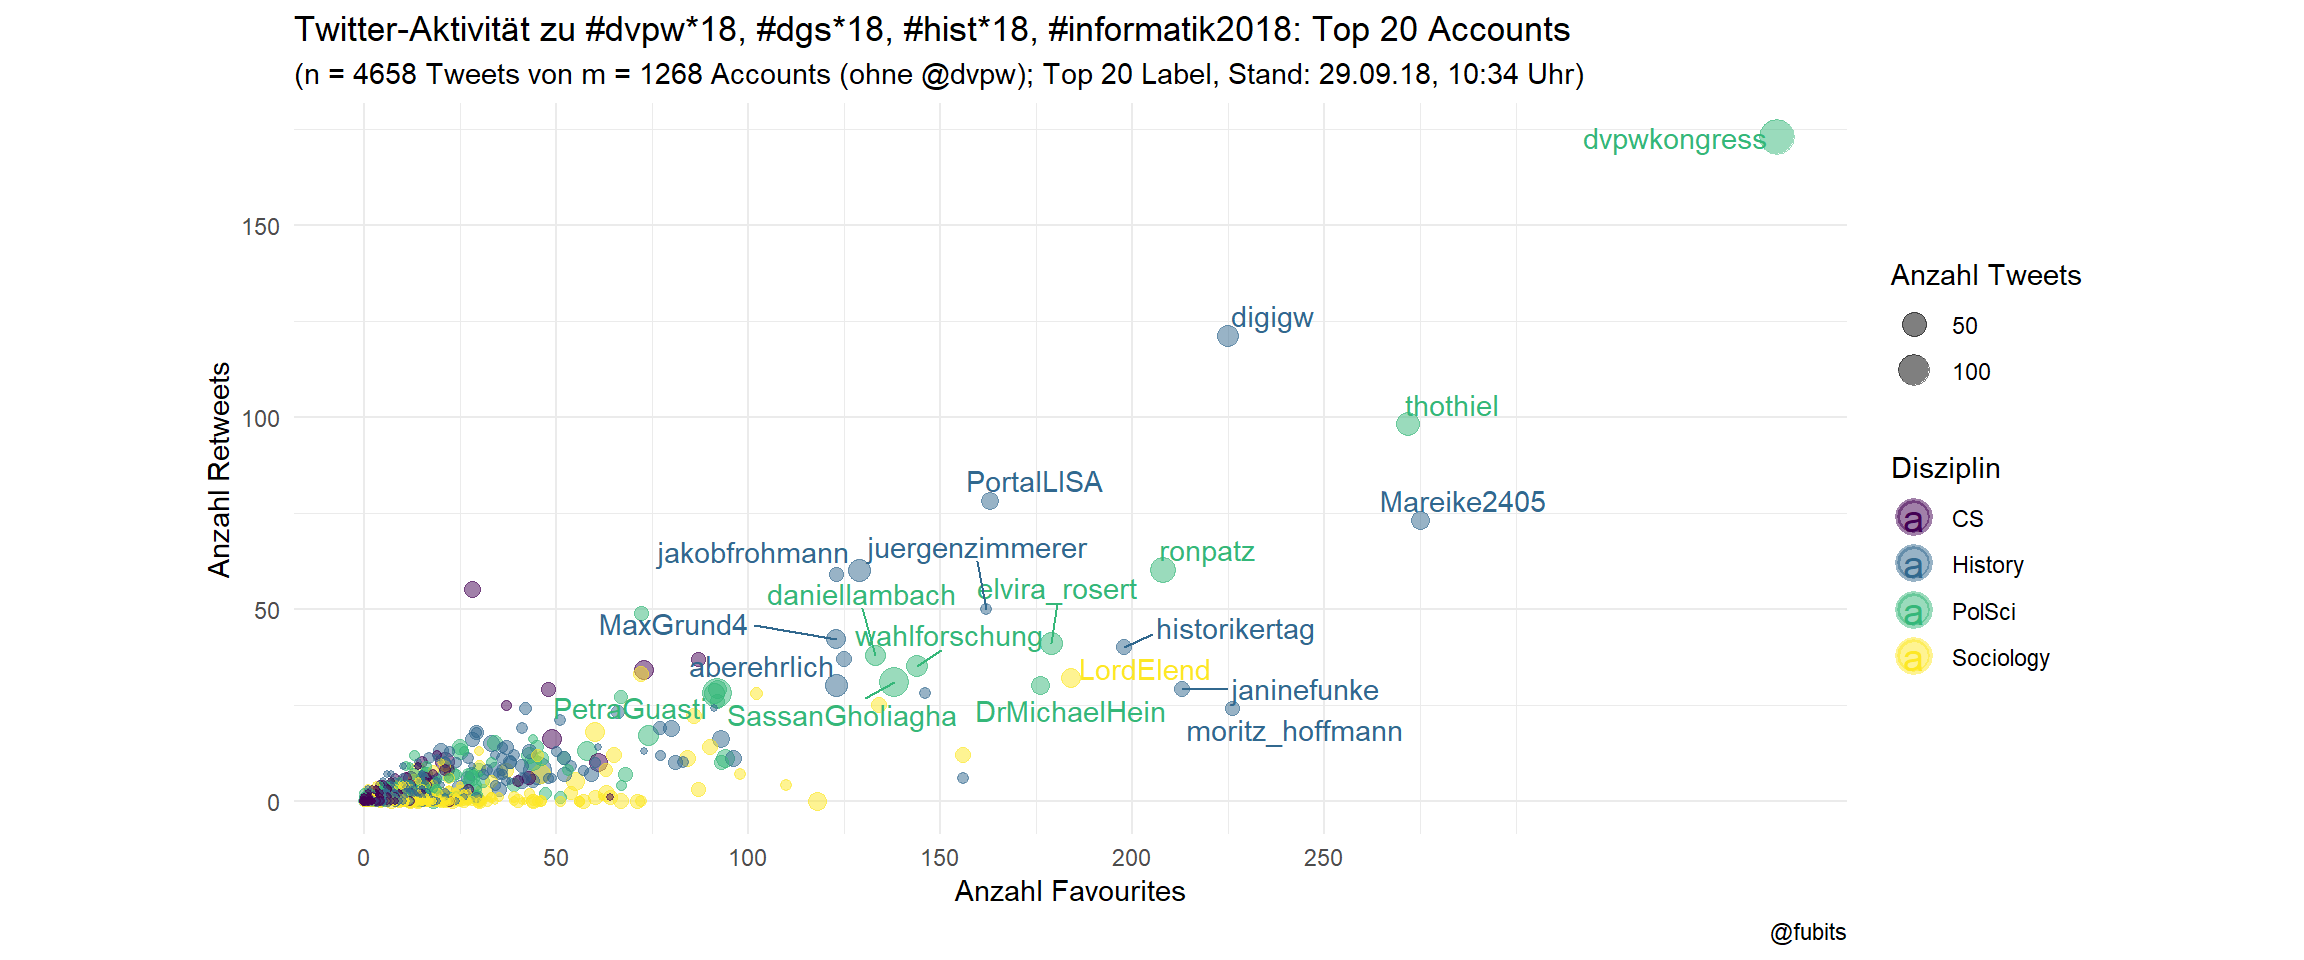
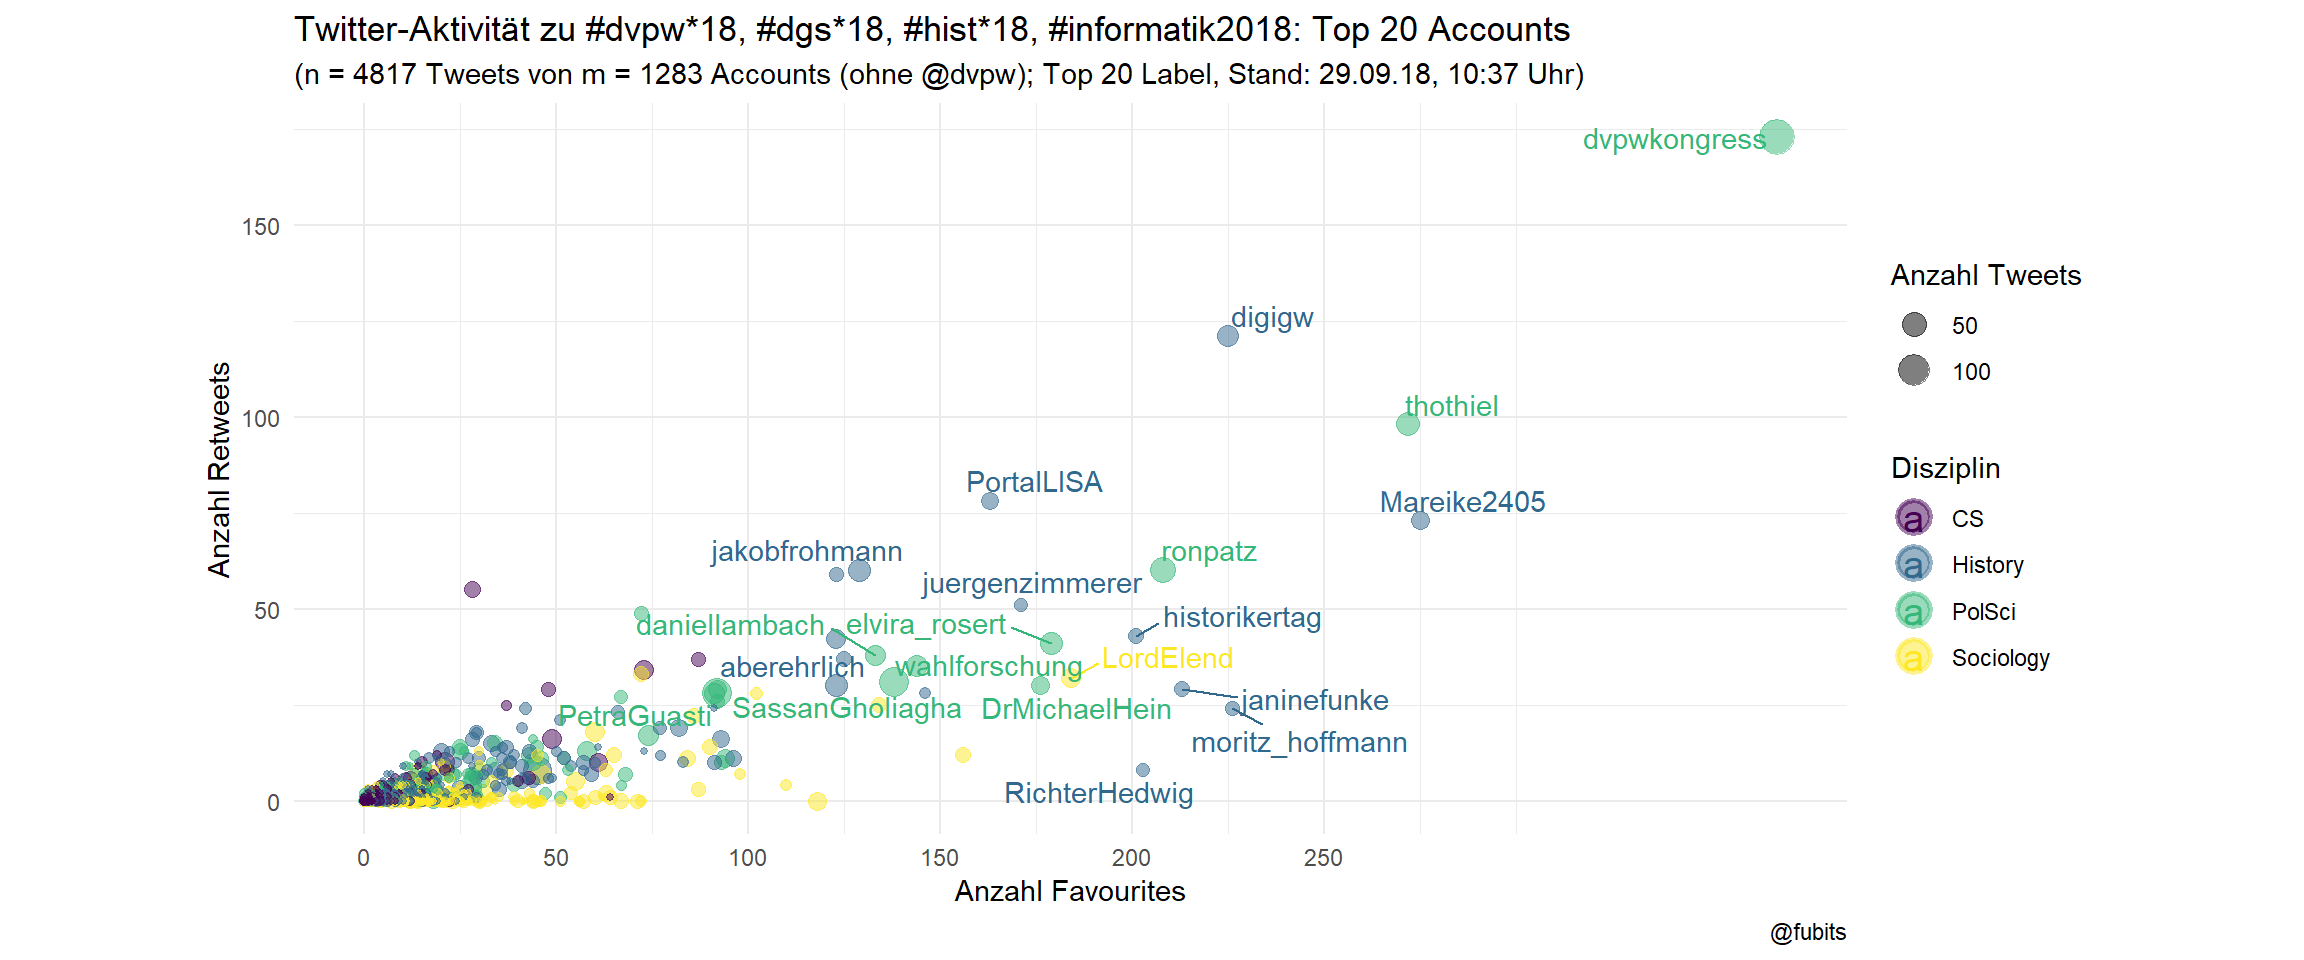
Twitter Post: Final polishing

diff --git a/content/post/2018-09-28-r-academic-conference-twitter-pt-1-mining-dvpw18-dgs18-hist18-et-al.html b/content/post/2018-09-28-r-academic-conference-twitter-pt-1-mining-dvpw18-dgs18-hist18-et-al.html
@@ -59,7 +59,7 @@ sequenceDiagrams:
 </ul></li>
 <li><a href="#some-comparisons"><span class="toc-section-number">3</span> Some Comparisons</a><ul>
 <li><a href="#joint-scatterplot-per-user"><span class="toc-section-number">3.1</span> Joint Scatterplot: per-User</a></li>
-<li><a href="#joint-scatterplot-top-20-labelled"><span class="toc-section-number">3.2</span> Joint Scatterplot: Top 20 labelled</a></li>
+<li><a href="#joint-scatterplot-top-20-labelled-wo-dvpw"><span class="toc-section-number">3.2</span> Joint Scatterplot: Top 20 labelled (w/o <span class="citation">@dvpw</span>)</a></li>
 <li><a href="#boxplots-overall-distribution-of-activities-by-discipline"><span class="toc-section-number">3.3</span> Boxplots: Overall Distribution of Activities by Discipline</a></li>
 </ul></li>
 <li><a href="#one-final-table-the-overall-activity-compared-by-numbers"><span class="toc-section-number">4</span> One final table: The overall activity compared by numbers</a></li>
@@ -120,7 +120,7 @@ twitter_token &lt;- readRDS(str_c(home_directory,&quot;/twitter_token.rds&quot;)
     unlist() %&gt;% glue::glue_collapse()
   }
 getTimeString()</code></pre>
-<pre><code>## 20180930120507</code></pre>
+<pre><code>## 20180930155219</code></pre>
 </div>
 <div id="prepare-filepath-for-.rds-with-here" class="section level2">
 <h2><span class="header-section-number">1.3</span> (Prepare filepath for .rds with <code>here()</code>)</h2>
@@ -161,7 +161,12 @@ saveRDS(dvpw_tweets, file =
 dvpw_rds &lt;- dir(path = data_path, pattern = &quot;dvpw_&quot;) %&gt;% 
   str_c(data_path, .) %&gt;% 
   map_dfr(readRDS)
-dvpw_collection &lt;- dvpw_rds %&gt;% distinct(status_id, .keep_all = TRUE)</code></pre>
+dvpw_collection &lt;- dvpw_rds %&gt;% distinct(status_id, .keep_all = TRUE) %&gt;%
+  filter(created_at &lt; &quot;2018-09-30&quot;) %&gt;%
+  arrange(created_at)</code></pre>
+<blockquote>
+<p>As you can see from <code>filter(created_at &lt; &quot;2018-09-30&quot;)</code> we will only consider tweets posted before Sunday, 30.09.2018 (for the sake of comparison)</p>
+</blockquote>
 <p>(How to check the latest/earliest Tweet)</p>
 <pre class="r"><code>min(dvpw_collection$status_id) # https://twitter.com/statuses/1041748634486931465
 Tweet &lt;- max(dvpw_collection$status_id) 
@@ -176,7 +181,7 @@ browseURL(str_c(&quot;https://twitter.com/statuses/&quot;, Tweet))</code></pre>
 dvpw_n_accounts &lt;- length(unique(dvpw_collection$screen_name))
 # tidy/dplyr: distinct(screen_name) %&gt;% count()
 
-dvpw_collection %&gt;%
+dvpw_collection %&gt;% 
   group_by(screen_name) %&gt;%
   summarise(n = n()) %&gt;%
   mutate(share = n / sum(n)) %&gt;%
@@ -272,20 +277,24 @@ post_list(dvpw_nicks[200:length(dvpw_nicks)], slug = &quot;dvpw2018&quot;, priva
 <div id="sociology-dgs18-dgs2018" class="section level2">
 <h2><span class="header-section-number">2.2</span> Sociology: #dgs18 / #dgs2018</h2>
 <p>Let’s have a look at how German Sociologists performed on Twitter. Like above, I’ve mined the Tweets multiple times in order to get a good sample.</p>
+<p><strong>Mine</strong></p>
 <pre class="r"><code>dgs_tweets &lt;- search_tweets(q = &quot;#dgs18 OR #dgs2018&quot;, # explicit QUERY
       include_rts = FALSE,
       # max_id = ,
       n = 5000,
       verbose = TRUE,
       retryonratelimit = TRUE,
-      type = &quot;recent&quot;) # mixed recent (popular)
+      type = &quot;mixed&quot;) # mixed recent (popular)
 
 saveRDS(dgs_tweets,
         file =  str_c(data_path,&quot;dgs_tweets_&quot;, getTimeString(),&quot;.rds&quot;)) </code></pre>
+<p><strong>Wrangle</strong></p>
 <pre class="r"><code>dgs_rds &lt;- dir(path = data_path, pattern = &quot;dgs_&quot;) %&gt;%
   str_c(data_path, .) %&gt;%
   map_dfr(readRDS)
-dgs_collection &lt;- dgs_rds %&gt;% distinct(status_id, .keep_all = TRUE)</code></pre>
+dgs_collection &lt;- dgs_rds %&gt;% distinct(status_id, .keep_all = TRUE) %&gt;%
+  filter(created_at &lt; &quot;2018-09-30&quot;) %&gt;%
+  arrange(created_at)</code></pre>
 <p><strong>Sociology: Treemap</strong></p>
 <pre class="r"><code>dgs_n_tweets &lt;- nrow(dgs_collection)
 dgs_n_accounts &lt;- length(unique(dgs_collection$screen_name))
@@ -307,7 +316,7 @@ dgs_collection %&gt;%
                          &quot; Accounts; Stand: 29.09.18, &quot;, timeString , &quot; Uhr;&quot;,
                          &quot; by @fubits)&quot;)) +
   guides(fill = FALSE)</code></pre>
-<p><img src="/post/2018-09-28-r-academic-conference-twitter-pt-1-mining-dvpw18-dgs18-hist18-et-al_files/figure-html/unnamed-chunk-19-1.png" width="672" /> That looks rather different from the #dvpw2018 community. Less institutional dominance and actually, many more individual Twitter users (704 active users vs 238 in team PolSci).</p>
+<p><img src="/post/2018-09-28-r-academic-conference-twitter-pt-1-mining-dvpw18-dgs18-hist18-et-al_files/figure-html/unnamed-chunk-19-1.png" width="672" /> That looks rather different from the #dvpw2018 community. Less institutional dominance and actually, many more individual Twitter users (704 active users vs 242 in team PolSci).</p>
 <p><strong>Sociology: per-User</strong></p>
 <pre class="r"><code>dgs_counts &lt;- dgs_collection %&gt;%
   group_by(screen_name) %&gt;%
@@ -359,20 +368,24 @@ dgs_collection %&gt;%
 <div id="historians-histag18-histag2018-historikertag2018" class="section level2">
 <h2><span class="header-section-number">2.3</span> Historians: #histag18 / #histag2018 / #historikertag2018</h2>
 <p>Next, let’s look have at the Twitter activity of German History scholars.</p>
+<p><strong>Mine</strong></p>
 <pre class="r"><code>hist_tweets &lt;- search_tweets(q = &quot;#histag18 OR #histag2018 OR #historikertag2018&quot;, # explicit QUERY
       include_rts = FALSE,
       # max_id = ,
       n = 5000,
       verbose = TRUE,
       retryonratelimit = TRUE,
-      type = &quot;recent&quot;) # mixed recent popular
+      type = &quot;mixed&quot;) # mixed recent popular
 
 saveRDS(hist_tweets, file =
           str_c(data_path,&quot;hist_tweets_&quot;,getTimeString(),&quot;.rds&quot;))</code></pre>
+<p><strong>Wrangle</strong></p>
 <pre class="r"><code>hist_rds &lt;- dir(path = data_path, pattern = &quot;hist_&quot;) %&gt;%
   str_c(data_path, .) %&gt;%
   map_dfr(readRDS)
-hist_collection &lt;- hist_rds %&gt;% distinct(status_id, .keep_all = TRUE)</code></pre>
+hist_collection &lt;- hist_rds %&gt;% distinct(status_id, .keep_all = TRUE) %&gt;%
+  filter(created_at &lt; &quot;2018-09-30&quot;) %&gt;%
+  arrange(created_at)</code></pre>
 <p><strong>Historians: Treemap</strong></p>
 <pre class="r"><code>hist_n_tweets &lt;- nrow(hist_collection)
 hist_n_accounts &lt;- length(unique(hist_collection$screen_name))
@@ -446,21 +459,24 @@ hist_collection %&gt;%
 <div id="computer-science-informatik2018" class="section level2">
 <h2><span class="header-section-number">2.4</span> Computer Science: #informatik2018</h2>
 <p>(Of course, CS scholars are rather disciplined and stick to one hashtag :) #informatik18 has only 3 Tweets so far, and #informatiktage only 2 users…)</p>
-<p><strong>Mining</strong></p>
+<p><strong>Mine</strong></p>
 <pre class="r"><code>inf_tweets &lt;- search_tweets(q = &quot;#informatik2018&quot;, # explicit QUERY
       include_rts = FALSE,
       # max_id = ,
       n = 5000,
       verbose = TRUE,
       retryonratelimit = TRUE,
-      type = &quot;mixed&quot;) # mixed recent popular
+      type = &quot;recent&quot;) # mixed recent popular
 
 saveRDS(inf_tweets, file =
           str_c(data_path,&quot;inf_tweets_&quot;,getTimeString(),&quot;.rds&quot;))</code></pre>
+<p><strong>Wrangle</strong></p>
 <pre class="r"><code>inf_rds &lt;- dir(path = data_path, pattern = &quot;inf_&quot;) %&gt;%
   str_c(data_path, .) %&gt;%
   map_dfr(readRDS)
-inf_collection &lt;- inf_rds %&gt;% distinct(status_id, .keep_all = TRUE)</code></pre>
+inf_collection &lt;- inf_rds %&gt;% distinct(status_id, .keep_all = TRUE) %&gt;%
+  filter(created_at &lt; &quot;2018-09-30&quot;) %&gt;%
+  arrange(created_at)</code></pre>
 <p><strong>Treemap</strong></p>
 <pre class="r"><code>inf_n_tweets &lt;- nrow(inf_collection)
 inf_n_accounts &lt;- length(unique(inf_collection$screen_name))
@@ -541,13 +557,8 @@ inf_collection %&gt;%
 <p>First, we will need to bind the four tibbles together. First, let’s get the total numbers of unique Tweets and unique users:</p>
 <pre class="r"><code>all_cons &lt;- bind_rows(dvpw_collection, dgs_collection, hist_collection, inf_collection)
 all_n_accounts &lt;- all_cons %&gt;% distinct(screen_name) %&gt;% nrow()
-all_n_tweets &lt;- all_cons %&gt;% distinct(status_id) %&gt;% nrow()
-
-all_n_accounts</code></pre>
-<pre><code>## [1] 1268</code></pre>
-<pre class="r"><code>all_n_tweets</code></pre>
-<pre><code>## [1] 4658</code></pre>
-<p>So, this week, 1268 German academic Twitter accounts have been active at four conferences in total, producing 4658 individual Tweets. Actually, that’s quite impressive!</p>
+all_n_tweets &lt;- all_cons %&gt;% distinct(status_id) %&gt;% nrow()</code></pre>
+<p>So, this week, 1284 German academic Twitter accounts have been active at four conferences in total, producing 4817 individual Tweets. Actually, that’s quite impressive!</p>
 <p>Now we can bind the aggregated *_counts.</p>
 <pre class="r"><code>all_cons_per_user &lt;- bind_rows(dvpw_counts, dgs_counts, hist_counts, inf_counts) %&gt;%
   group_by(screen_name) %&gt;% 
@@ -555,9 +566,9 @@ all_n_accounts</code></pre>
   mutate(avg_output = (Tweets + RT + Favs)/3) %&gt;% 
   arrange(desc(avg_output)) #&gt; 1262
 # all_cons_per_user %&gt;% distinct(screen_name) %&gt;% count() #&gt; 1262
-all_cons_per_user %&gt;% head(10)</code></pre>
-<pre><code>## # A tibble: 10 x 6
-## # Groups:   screen_name [10]
+all_cons_per_user %&gt;% head(20)</code></pre>
+<pre><code>## # A tibble: 20 x 6
+## # Groups:   screen_name [20]
 ##    screen_name     Tweets    RT  Favs discipline avg_output
 ##    &lt;chr&gt;            &lt;int&gt; &lt;int&gt; &lt;int&gt; &lt;chr&gt;           &lt;dbl&gt;
 ##  1 dvpw               368   423   522 PolSci          438. 
@@ -569,7 +580,17 @@ all_cons_per_user %&gt;% head(10)</code></pre>
 ##  7 elvira_rosert       41    41   179 PolSci           87  
 ##  8 PortalLISA          20    78   163 History          87  
 ##  9 moritz_hoffmann      9    24   226 History          86.3
-## 10 SassanGholiagha     86    31   138 PolSci           85</code></pre>
+## 10 historikertag       13    43   201 History          85.7
+## 11 SassanGholiagha     86    31   138 PolSci           85  
+## 12 janinefunke         12    29   213 History          84.7
+## 13 LordElend           26    32   184 Sociology        80.7
+## 14 jakobfrohmann       41    60   129 History          76.7
+## 15 juergenzimmerer      7    51   171 History          76.3
+## 16 DrMichaelHein       21    30   176 PolSci           75.7
+## 17 RichterHedwig        7     8   203 History          72.7
+## 18 wahlforschung       35    35   144 PolSci           71.3
+## 19 PetraGuasti         84    28    92 PolSci           68  
+## 20 daniellambach       33    38   133 PolSci           68</code></pre>
 <div id="joint-scatterplot-per-user" class="section level2">
 <h2><span class="header-section-number">3.1</span> Joint Scatterplot: per-User</h2>
 <p>Let’s have a look at the German academic Twitter crowd:</p>
@@ -594,8 +615,8 @@ all_cons_per_user %&gt;% head(10)</code></pre>
          caption = &quot;@fubits&quot;)</code></pre>
 <p><img src="/post/2018-09-28-r-academic-conference-twitter-pt-1-mining-dvpw18-dgs18-hist18-et-al_files/figure-html/unnamed-chunk-37-1.png" width="1152" /></p>
 </div>
-<div id="joint-scatterplot-top-20-labelled" class="section level2">
-<h2><span class="header-section-number">3.2</span> Joint Scatterplot: Top 20 labelled</h2>
+<div id="joint-scatterplot-top-20-labelled-wo-dvpw" class="section level2">
+<h2><span class="header-section-number">3.2</span> Joint Scatterplot: Top 20 labelled (w/o <span class="citation">@dvpw</span>)</h2>
 <pre class="r"><code>all_cons_per_user %&gt;% 
   filter(screen_name != &quot;dvpw&quot;) %&gt;%
   ggplot(aes(x = Favs, y = RT, color = discipline)) +
@@ -611,7 +632,7 @@ all_cons_per_user %&gt;% head(10)</code></pre>
          color = &quot;Disziplin&quot;,
          title = &quot;Twitter-Aktivität zu #dvpw*18, #dgs*18, #hist*18, #informatik2018: Top 20 Accounts&quot;,
          subtitle = paste0(&quot;(n = &quot;, all_n_tweets,
-                         &quot; Tweets von m = &quot;, all_n_accounts,
+                         &quot; Tweets von m = &quot;, all_n_accounts-1,
                          &quot; Accounts (ohne @dvpw); Top 20 Label, Stand: 29.09.18, &quot;,
                          timeString, &quot; Uhr)&quot;),
          x = &quot;Anzahl Favourites&quot;,
@@ -625,75 +646,22 @@ all_cons_per_user %&gt;% head(10)</code></pre>
 <pre class="r"><code>dvpw_box &lt;- dvpw_counts %&gt;% 
   gather(&quot;Metric&quot;, &quot;Total&quot;, 2:4) #%&gt;%
   # mutate(Discipline = &quot;PolSci&quot;)
-dvpw_box</code></pre>
-<pre><code>## # A tibble: 714 x 4
-##    screen_name     discipline Metric Total
-##    &lt;chr&gt;           &lt;chr&gt;      &lt;chr&gt;  &lt;int&gt;
-##  1 dvpw            PolSci     Tweets   368
-##  2 dvpwkongress    PolSci     Tweets   135
-##  3 SassanGholiagha PolSci     Tweets    86
-##  4 PetraGuasti     PolSci     Tweets    84
-##  5 ronpatz         PolSci     Tweets    58
-##  6 thothiel        PolSci     Tweets    44
-##  7 elvira_rosert   PolSci     Tweets    41
-##  8 wahlforschung   PolSci     Tweets    35
-##  9 daniellambach   PolSci     Tweets    33
-## 10 VanHuellen      PolSci     Tweets    33
-## # ... with 704 more rows</code></pre>
+dvpw_box %&gt;% filter(screen_name == &quot;dvpw&quot;)</code></pre>
+<pre><code>## # A tibble: 3 x 4
+##   screen_name discipline Metric Total
+##   &lt;chr&gt;       &lt;chr&gt;      &lt;chr&gt;  &lt;int&gt;
+## 1 dvpw        PolSci     Tweets   368
+## 2 dvpw        PolSci     RT       423
+## 3 dvpw        PolSci     Favs     522</code></pre>
 <pre class="r"><code>dgs_box &lt;- dgs_counts %&gt;% 
   gather(&quot;Metric&quot;, &quot;Total&quot;, 2:4) # %&gt;%
-  # mutate(Discipline = &quot;Socio&quot;)
-dgs_box</code></pre>
-<pre><code>## # A tibble: 2,112 x 4
-##    screen_name     discipline Metric Total
-##    &lt;chr&gt;           &lt;chr&gt;      &lt;chr&gt;  &lt;int&gt;
-##  1 sozmethode      Sociology  Tweets    82
-##  2 outputin22      Sociology  Tweets    28
-##  3 LordElend       Sociology  Tweets    26
-##  4 papatyaizii_    Sociology  Tweets    25
-##  5 dlindner79      Sociology  Tweets    24
-##  6 Hakanuluocak1   Sociology  Tweets    23
-##  7 annalytika      Sociology  Tweets    22
-##  8 katharinahppe   Sociology  Tweets    17
-##  9 ToBeAsBold      Sociology  Tweets    16
-## 10 AndreArmbruster Sociology  Tweets    14
-## # ... with 2,102 more rows</code></pre>
+  # mutate(Discipline = &quot;Socio&quot;)</code></pre>
 <pre class="r"><code>hist_box &lt;- hist_counts %&gt;% 
   gather(&quot;Metric&quot;, &quot;Total&quot;, 2:4) # %&gt;%
-  # mutate(Discipline = &quot;History&quot;)
-hist_box</code></pre>
-<pre><code>## # A tibble: 891 x 4
-##    screen_name     discipline Metric Total
-##    &lt;chr&gt;           &lt;chr&gt;      &lt;chr&gt;  &lt;int&gt;
-##  1 Kasutaja_n      History    Tweets    74
-##  2 jakobfrohmann   History    Tweets    41
-##  3 aberehrlich     History    Tweets    39
-##  4 digigw          History    Tweets    34
-##  5 MaxGrund4       History    Tweets    26
-##  6 Mareike2405     History    Tweets    24
-##  7 PortalLISA      History    Tweets    20
-##  8 schuleschilling History    Tweets    20
-##  9 DenkBrei        History    Tweets    19
-## 10 esciencestrier  History    Tweets    17
-## # ... with 881 more rows</code></pre>
+  # mutate(Discipline = &quot;History&quot;)</code></pre>
 <pre class="r"><code>inf_box &lt;- inf_counts %&gt;% 
   gather(&quot;Metric&quot;, &quot;Total&quot;, 2:4) # %&gt;%
-  # mutate(Discipline = &quot;CS&quot;)
-inf_box</code></pre>
-<pre><code>## # A tibble: 291 x 4
-##    screen_name     discipline Metric Total
-##    &lt;chr&gt;           &lt;chr&gt;      &lt;chr&gt;  &lt;int&gt;
-##  1 SilSte          CS         Tweets    27
-##  2 hiig_berlin     CS         Tweets    26
-##  3 stillinsky      CS         Tweets    26
-##  4 Jessieevaline   CS         Tweets    22
-##  5 TommyBlfd       CS         Tweets    17
-##  6 gross_dc        CS         Tweets    11
-##  7 informatikradar CS         Tweets    11
-##  8 Fraunhofer_IUK  CS         Tweets    10
-##  9 herdom          CS         Tweets     8
-## 10 kryptomania84   CS         Tweets     7
-## # ... with 281 more rows</code></pre>
+  # mutate(Discipline = &quot;CS&quot;)</code></pre>
 <pre class="r"><code>bind_rows(dvpw_box, dgs_box, hist_box, inf_box) %&gt;% 
   ggplot() +
   geom_boxplot(aes(fct_inorder(Metric), Total)) +
@@ -715,6 +683,7 @@ inf_box</code></pre>
 </div>
 <div id="one-final-table-the-overall-activity-compared-by-numbers" class="section level1">
 <h1><span class="header-section-number">4</span> One final table: The overall activity compared by numbers</h1>
+<p>What, if we simply compare the disciplines’ Twitter performance by simple totals?</p>
 <pre class="r"><code>bind_rows(dvpw_counts, dgs_counts, hist_counts, inf_counts) %&gt;%
   group_by(discipline) %&gt;% 
   summarise(Users = n(), Tweets = sum(Tweets),
@@ -724,9 +693,24 @@ inf_box</code></pre>
 ##   discipline Users Tweets    RT   Fav
 ##   &lt;chr&gt;      &lt;int&gt;  &lt;int&gt; &lt;int&gt; &lt;int&gt;
 ## 1 Sociology    704   1658   615  8477
-## 2 History      297   1064  1660  6619
+## 2 History      302   1086  1679  6750
 ## 3 PolSci       238   1691  1680  5341
 ## 4 CS            97    302   397  1039</code></pre>
+<p>And we if we average out Tweets+RTs+Favs per User?</p>
+<pre class="r"><code>bind_rows(dvpw_counts, dgs_counts, hist_counts, inf_counts) %&gt;%
+  group_by(discipline) %&gt;% 
+  summarise(Users = n(), Tweets = sum(Tweets),
+            RT = sum(RT), Fav = sum(Favs)) %&gt;% 
+  mutate(avg_output = (Tweets + RT + Fav)/Users) %&gt;% 
+  arrange(desc(avg_output))</code></pre>
+<pre><code>## # A tibble: 4 x 6
+##   discipline Users Tweets    RT   Fav avg_output
+##   &lt;chr&gt;      &lt;int&gt;  &lt;int&gt; &lt;int&gt; &lt;int&gt;      &lt;dbl&gt;
+## 1 PolSci       238   1691  1680  5341       36.6
+## 2 History      302   1086  1679  6750       31.5
+## 3 CS            97    302   397  1039       17.9
+## 4 Sociology    704   1658   615  8477       15.3</code></pre>
+<p>The interpretation is up to you.</p>
 </div>
 <div id="whats-next" class="section level1">
 <h1><span class="header-section-number">5</span> What’s next</h1>

diff --git a/static/css/custom.css b/static/css/custom.css
@@ -396,3 +396,16 @@ h1, h2, h3, h4, h5, h6 {
 	background: #f8f5ec;
 	font-size: 1em;
 }
+
+/* table,
+th,
+td
+ {
+    border: 1px solid black;
+    padding: 3px;
+}
+th {
+    font-weight: bold;
+    text-align: center;
+} */
+
